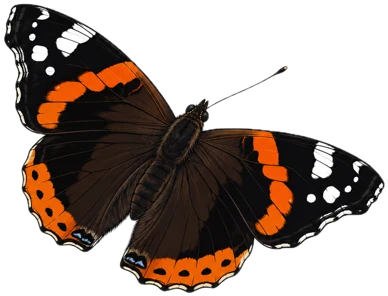
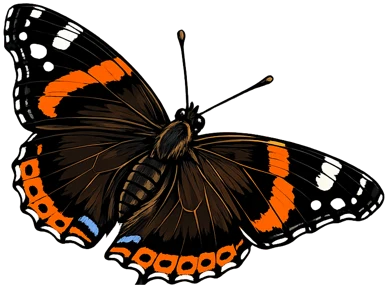
1.4 "Admiral" is live: the release date, in six languages
All four versions (CR and JR, Mac and iOS) went to READY_FOR_SALE on
August 13, 2026. The changelog's placeholder month becomes the day.

Changed region(s): [[0.0, 0.0, 1.0, 1.0], [0.7113, 0.2188, 0.7423, 0.25]]

diff --git a/js/i18n.js b/js/i18n.js
@@ -71,7 +71,7 @@ const translations = {
     'changelog.header.title': 'What’s <em>New</em>',
     'changelog.header.subtitle': 'Every ContinuousReader release, newest first. JustReader shares the reading engine, so engine changes apply to both apps.',
     'changelog.v14.i10': 'Fixes and polish throughout.',
-    'changelog.v14.i9': 'JustReader: a real Settings screen, reading statistics, bookmarks and notes that survive re-imports, the Book Card, and chapter navigation right from home.',
+    'changelog.v14.i9': 'JustReader: a full-fledged Settings screen, reading statistics, bookmarks and notes that survive re-imports, the Book Card, and chapter navigation right from home.',
     'changelog.v14.i8': 'Sync you can see: the waiting curtain names the book and says how fresh the other device’s position is; the readers sheet lists every device with its live position.',
     'changelog.v14.i7': 'The iPhone library, one tap deep: a dedicated search-and-filter button, a reachable Trash, folder management by swipes, a full-screen book card.',
     'changelog.v14.i6': 'Quick reader appearance everywhere: a floating panel you keep beside the page on the Mac, a full-screen surface on iPhone — no open book required.',
@@ -80,7 +80,7 @@ const translations = {
     'changelog.v14.i3': 'One Book Card on every device: it opens instantly even on image-heavy books, the gallery pages smoothly, and the Stats tab shows the book’s own reading history.',
     'changelog.v14.i2': 'Go To — jump into a book at a chapter or bookmark straight from the library; books now carry their real table of contents instead of invented chapter numbers.',
     'changelog.v14.i1': 'Global search — find any phrase in any book you own: text, titles, authors, series, annotations. Results show highlighted snippets with hit counts, and the jump arrow opens the book right at the found place.',
-    'changelog.v14.date': '— August 2026',
+    'changelog.v14.date': '— August 13, 2026',
     'changelog.v14.title': '1.4 “Admiral”',
     'changelog.v13.i8': 'Fixes and polish throughout.',
     'changelog.v13.i7': 'JustReader: a new home screen — a round Read button wrapped in a progress gauge — plus a history of the last five books, each reopening on its page.',
@@ -966,7 +966,7 @@ const translations = {
     'changelog.header.title': 'Что <em>нового</em>',
     'changelog.header.subtitle': 'Все релизы ContinuousReader, новые сверху. JustReader использует тот же движок чтения, поэтому изменения движка касаются обоих приложений.',
     'changelog.v14.i10': 'Исправления и полировка.',
-    'changelog.v14.i9': 'JustReader: настоящий экран настроек, статистика чтения, закладки и заметки, переживающие повторный импорт, карточка книги и навигация по главам с главного экрана.',
+    'changelog.v14.i9': 'JustReader: полноценный экран настроек, статистика чтения, закладки и заметки, переживающие повторный импорт, карточка книги и навигация по главам с главного экрана.',
     'changelog.v14.i8': 'Видимая синхронизация: шторка ожидания называет книгу и говорит, насколько свежа позиция другого устройства; список читателей показывает живую позицию каждого.',
     'changelog.v14.i7': 'Библиотека iPhone — всё в один тап: отдельная кнопка поиска и фильтров, досягаемая корзина, управление папками свайпами, полноэкранная карточка книги.',
     'changelog.v14.i6': 'Быстрая настройка оформления ридера везде: плавающая панель рядом со страницей на Mac, полноэкранная — на iPhone; открытая книга не нужна.',
@@ -975,7 +975,7 @@ const translations = {
     'changelog.v14.i3': 'Единая карточка книги на всех устройствах: открывается мгновенно даже на книгах с сотней иллюстраций, галерея листается плавно, во вкладке статистики — история чтения книги.',
     'changelog.v14.i2': 'Go To — переход к главе или закладке прямо из библиотеки; книги теперь получают своё настоящее оглавление вместо выдуманных номеров глав.',
     'changelog.v14.i1': 'Глобальный поиск — любая фраза в любой книге библиотеки: текст, названия, авторы, серии, аннотации. Результаты показывают фрагменты с подсветкой и число совпадений, а стрелка перехода открывает книгу прямо на найденном месте.',
-    'changelog.v14.date': '— август 2026',
+    'changelog.v14.date': '— 13 августа 2026',
     'changelog.v14.title': '1.4 «Адмирал»',
     'changelog.v13.i8': 'Исправления и полировка.',
     'changelog.v13.i7': 'JustReader: новый главный экран — круглая кнопка «Читать» со шкалой прочитанного — и история пяти последних книг, каждая открывается на своей странице.',
@@ -1852,7 +1852,7 @@ const translations = {
     'changelog.header.title': 'Що <em>нового</em>',
     'changelog.header.subtitle': 'Усі релізи ContinuousReader, найновіші згори. JustReader використовує той самий рушій читання, тож зміни рушія стосуються обох застосунків.',
     'changelog.v14.i10': 'Виправлення та поліпшення.',
-    'changelog.v14.i9': 'JustReader: справжній екран налаштувань, статистика читання, закладки й нотатки, що переживають повторний імпорт, картка книги та навігація за розділами з головного екрана.',
+    'changelog.v14.i9': 'JustReader: повноцінний екран налаштувань, статистика читання, закладки й нотатки, що переживають повторний імпорт, картка книги та навігація за розділами з головного екрана.',
     'changelog.v14.i8': 'Видима синхронізація: шторка очікування називає книгу й каже, наскільки свіжа позиція іншого пристрою; список читачів показує живу позицію кожного.',
     'changelog.v14.i7': 'Бібліотека iPhone — усе в один дотик: окрема кнопка пошуку й фільтрів, досяжний кошик, керування папками свайпами, повноекранна картка книги.',
     'changelog.v14.i6': 'Швидке налаштування вигляду читалки всюди: плаваюча панель поруч зі сторінкою на Mac, повноекранна — на iPhone; відкрита книга не потрібна.',
@@ -1861,7 +1861,7 @@ const translations = {
     'changelog.v14.i3': 'Єдина картка книги на всіх пристроях: відкривається миттєво навіть на книгах із сотнею ілюстрацій, галерея гортається плавно, у вкладці статистики — історія читання книги.',
     'changelog.v14.i2': 'Go To — перехід до розділу чи закладки просто з бібліотеки; книги тепер отримують свій справжній зміст замість вигаданих номерів розділів.',
     'changelog.v14.i1': 'Глобальний пошук — будь-яка фраза в будь-якій книзі бібліотеки: текст, назви, автори, серії, анотації. Результати показують фрагменти з підсвіткою та кількість збігів, а стрілка переходу відкриває книгу просто на знайденому місці.',
-    'changelog.v14.date': '— серпень 2026',
+    'changelog.v14.date': '— 13 серпня 2026',
     'changelog.v14.title': '1.4 «Адмірал»',
     'changelog.v13.i8': 'Виправлення й поліпшення.',
     'changelog.v13.i7': 'JustReader: новий головний екран — кругла кнопка «Читати» зі шкалою прочитаного — та історія п’яти останніх книг, кожна відкривається на своїй сторінці.',
@@ -2736,7 +2736,7 @@ const translations = {
     'changelog.header.title': '<em>Novedades</em>',
     'changelog.header.subtitle': 'Todas las versiones de ContinuousReader, las más recientes primero. JustReader comparte el motor de lectura, así que los cambios del motor se aplican a ambas apps.',
     'changelog.v14.i10': 'Correcciones y pulido.',
-    'changelog.v14.i9': 'JustReader: una pantalla de ajustes de verdad, estadísticas de lectura, marcadores y notas que sobreviven a la reimportación, la ficha del libro y navegación por capítulos desde el inicio.',
+    'changelog.v14.i9': 'JustReader: una pantalla de ajustes completa, estadísticas de lectura, marcadores y notas que sobreviven a la reimportación, la ficha del libro y navegación por capítulos desde el inicio.',
     'changelog.v14.i8': 'Sincronización visible: la cortina de espera nombra el libro y dice cuán reciente es la posición del otro dispositivo; la lista de lectores muestra la posición en vivo de cada uno.',
     'changelog.v14.i7': 'La biblioteca del iPhone, a un toque: botón dedicado de búsqueda y filtros, papelera accesible, gestión de carpetas con gestos, ficha de libro a pantalla completa.',
     'changelog.v14.i6': 'Ajustes rápidos de apariencia del lector en todas partes: un panel flotante junto a la página en el Mac, una superficie a pantalla completa en el iPhone — sin necesidad de un libro abierto.',
@@ -2745,7 +2745,7 @@ const translations = {
     'changelog.v14.i3': 'Una ficha de libro única en todos los dispositivos: se abre al instante incluso con cientos de ilustraciones, la galería pasa con fluidez y la pestaña de estadísticas muestra el historial de lectura del libro.',
     'changelog.v14.i2': 'Go To: salta a un capítulo o marcador directamente desde la biblioteca; los libros ahora traen su índice real en lugar de números de capítulo inventados.',
     'changelog.v14.i1': 'Búsqueda global: encuentra cualquier frase en cualquier libro de tu biblioteca — texto, títulos, autores, series, anotaciones. Los resultados muestran fragmentos resaltados con el número de coincidencias, y la flecha abre el libro justo en el lugar encontrado.',
-    'changelog.v14.date': '— agosto de 2026',
+    'changelog.v14.date': '— 13 de agosto de 2026',
     'changelog.v14.title': '1.4 “Almirante”',
     'changelog.v13.i8': 'Correcciones y mejoras.',
     'changelog.v13.i7': 'JustReader: nueva pantalla principal — un botón redondo de Leer rodeado por un indicador de progreso — más un historial de los últimos cinco libros, cada uno reabriéndose en su página.',
@@ -3622,7 +3622,7 @@ const translations = {
     'changelog.header.title': '<em>Nouveautés</em>',
     'changelog.header.subtitle': 'Toutes les versions de ContinuousReader, les plus récentes en premier. JustReader partage le moteur de lecture : les changements du moteur s’appliquent aux deux apps.',
     'changelog.v14.i10': 'Corrections et finitions.',
-    'changelog.v14.i9': 'JustReader : un vrai écran de réglages, des statistiques de lecture, des signets et notes qui survivent à la réimportation, la fiche du livre et la navigation par chapitres depuis l’accueil.',
+    'changelog.v14.i9': 'JustReader : un écran de réglages complet, des statistiques de lecture, des signets et notes qui survivent à la réimportation, la fiche du livre et la navigation par chapitres depuis l’accueil.',
     'changelog.v14.i8': 'Une synchronisation visible : le rideau d’attente nomme le livre et indique la fraîcheur de la position de l’autre appareil ; la liste des lecteurs montre la position en direct de chacun.',
     'changelog.v14.i7': 'La bibliothèque iPhone à portée d’un geste : bouton dédié recherche et filtres, corbeille accessible, gestion des dossiers par balayage, fiche du livre en plein écran.',
     'changelog.v14.i6': 'Réglages rapides de l’apparence du lecteur partout : un panneau flottant à côté de la page sur Mac, une surface plein écran sur iPhone — sans livre ouvert.',
@@ -3631,7 +3631,7 @@ const translations = {
     'changelog.v14.i3': 'Une fiche de livre unique sur tous les appareils : ouverture instantanée même avec des centaines d’illustrations, galerie fluide, et l’onglet statistiques montre l’historique de lecture du livre.',
     'changelog.v14.i2': 'Go To : accédez à un chapitre ou à un signet directement depuis la bibliothèque ; les livres portent désormais leur vraie table des matières au lieu de numéros de chapitre inventés.',
     'changelog.v14.i1': 'Recherche globale : trouvez n’importe quelle phrase dans n’importe quel livre de votre bibliothèque — texte, titres, auteurs, séries, annotations. Les résultats montrent des extraits surlignés avec le nombre d’occurrences, et la flèche ouvre le livre à l’endroit exact.',
-    'changelog.v14.date': '— août 2026',
+    'changelog.v14.date': '— 13 août 2026',
     'changelog.v14.title': '1.4 « Amiral »',
     'changelog.v13.i8': 'Corrections et finitions.',
     'changelog.v13.i7': 'JustReader : nouvel écran d’accueil — un bouton rond Lire entouré d’une jauge de progression — plus un historique des cinq derniers livres, chacun se rouvrant à sa page.',
@@ -4507,7 +4507,7 @@ const translations = {
     'changelog.header.title': '<em>Neuigkeiten</em>',
     'changelog.header.subtitle': 'Alle ContinuousReader-Versionen, neueste zuerst. JustReader teilt die Lese-Engine — Engine-Änderungen gelten für beide Apps.',
     'changelog.v14.i10': 'Fehlerbehebungen und Feinschliff.',
-    'changelog.v14.i9': 'JustReader: ein echter Einstellungsbildschirm, Lesestatistik, Lesezeichen und Notizen, die den erneuten Import überleben, die Buchkarte und Kapitelnavigation direkt vom Startbildschirm.',
+    'changelog.v14.i9': 'JustReader: ein vollwertiger Einstellungsbildschirm, Lesestatistik, Lesezeichen und Notizen, die den erneuten Import überleben, die Buchkarte und Kapitelnavigation direkt vom Startbildschirm.',
     'changelog.v14.i8': 'Sichtbare Synchronisierung: der Wartevorhang nennt das Buch und sagt, wie frisch die Position des anderen Geräts ist; die Leserliste zeigt die Live-Position jedes Geräts.',
     'changelog.v14.i7': 'Die iPhone-Bibliothek, einen Fingertipp entfernt: eigene Such- und Filtertaste, erreichbarer Papierkorb, Ordnerverwaltung per Wischgesten, Buchkarte im Vollbild.',
     'changelog.v14.i6': 'Schnelle Reader-Darstellung überall: ein schwebendes Panel neben der Seite auf dem Mac, eine Vollbildfläche auf dem iPhone — ganz ohne geöffnetes Buch.',
@@ -4516,7 +4516,7 @@ const translations = {
     'changelog.v14.i3': 'Eine Buchkarte auf allen Geräten: öffnet sofort, selbst bei Büchern mit Hunderten Illustrationen, die Galerie blättert flüssig, und der Statistik-Tab zeigt die Lesegeschichte des Buchs.',
     'changelog.v14.i2': 'Go To — direkt aus der Bibliothek zu einem Kapitel oder Lesezeichen springen; Bücher tragen jetzt ihr echtes Inhaltsverzeichnis statt erfundener Kapitelnummern.',
     'changelog.v14.i1': 'Globale Suche — jede Phrase in jedem Buch der Bibliothek finden: Text, Titel, Autoren, Reihen, Anmerkungen. Die Ergebnisse zeigen hervorgehobene Ausschnitte mit Trefferzahl, und der Sprungpfeil öffnet das Buch genau an der Fundstelle.',
-    'changelog.v14.date': '— August 2026',
+    'changelog.v14.date': '— 13. August 2026',
     'changelog.v14.title': '1.4 „Admiral“',
     'changelog.v13.i8': 'Korrekturen und Feinschliff.',
     'changelog.v13.i7': 'JustReader: neuer Startbildschirm — eine runde Lesen-Taste mit Fortschrittsskala — plus ein Verlauf der letzten fünf Bücher, jedes öffnet sich auf seiner Seite.',

diff --git a/changelog.html b/changelog.html
@@ -73,7 +73,7 @@
 
       <div class="release-divider">
         <img class="release-butterfly" src="img/butterfly-admiral.webp" alt="" aria-hidden="true">
-        <h3><span data-i18n="changelog.v14.title">1.4 “Admiral”</span> <span class="changelog-date" data-i18n="changelog.v14.date">— August 2026</span></h3>
+        <h3><span data-i18n="changelog.v14.title">1.4 “Admiral”</span> <span class="changelog-date" data-i18n="changelog.v14.date">— August 13, 2026</span></h3>
       </div>
       <ul class="changelog-list">
         <li data-i18n="changelog.v14.i1">Global search — find any phrase in any book you own: text, titles, authors, series, annotations. Results show highlighted snippets with hit counts, and the jump arrow opens the book right at the found place.<button class="callout-dot" type="button" data-screenshot="img/screenshots/features-global-search.webp" data-alt="Mac search window with highlighted snippets across three books and jump arrows" aria-label="View global search screenshot"></button></li>
@@ -84,9 +84,20 @@
         <li data-i18n="changelog.v14.i6">Quick reader appearance everywhere: a floating panel you keep beside the page on the Mac, a full-screen surface on iPhone — no open book required.</li>
         <li data-i18n="changelog.v14.i7">The iPhone library, one tap deep: a dedicated search-and-filter button, a reachable Trash, folder management by swipes, a full-screen book card.<button class="callout-dot" type="button" data-screenshot="img/screenshots/features-search-iphone.webp" data-alt="iPhone search sheet with highlighted snippets and covers" aria-label="View iPhone search screenshot"></button></li>
         <li data-i18n="changelog.v14.i8">Sync you can see: the waiting curtain names the book and says how fresh the other device’s position is; the readers sheet lists every device with its live position.</li>
-        <li data-i18n="changelog.v14.i9">JustReader: a real Settings screen, reading statistics, bookmarks and notes that survive re-imports, the Book Card, and chapter navigation right from home.</li>
+        <li data-i18n="changelog.v14.i9">JustReader: a full-fledged Settings screen, reading statistics, bookmarks and notes that survive re-imports, the Book Card, and chapter navigation right from home.</li>
         <li data-i18n="changelog.v14.i10">Fixes and polish throughout.</li>
       </ul>
+
+      <div class="screenshot" style="margin-top: 28px;">
+        <img width="1600" height="1000" loading="lazy" decoding="async"
+             src="img/screenshots/features-global-search.webp"
+             alt="Mac search window with highlighted snippets across three books and jump arrows">
+      </div>
+      <div class="screenshot" style="margin-top: 20px;">
+        <img width="1327" height="1400" loading="lazy" decoding="async"
+             src="img/screenshots/features-depth.webp"
+             alt="Six Mac windows comparing Flat, Standard, and Deep depth in light and dark appearance">
+      </div>
 
       <div class="release-divider">
         <img class="release-butterfly" src="img/butterfly-swallowtail.webp" alt="" aria-hidden="true">

diff --git a/features.html b/features.html
@@ -883,6 +883,9 @@
                     <li data-i18n="features.s3.tabs.li1"><strong>Library</strong>The complete collection, with all
                         filtering, sorting, and folder scoping applied
                     </li>
+                    <li data-i18n="features.s3.tabs.li_new"><strong>New</strong>Books you haven’t started yet, with its
+                        own folder tree, per-folder counts, and Mark as Read to clear the badge without opening the book
+                    </li>
                     <li data-i18n="features.s3.tabs.li2"><strong>Latest</strong>Recently opened or recently imported
                         books (switchable), ignoring folder filters
                     </li>
@@ -896,7 +899,7 @@
         </span>
                     <button class="callout-dot section-callout" type="button"
                             data-screenshot="img/screenshots/features-library-tabs.webp"
-                            data-alt="Library tabs — Library, Latest, Pinned"
+                            data-alt="Library tabs — Library, New, Latest, Pinned"
                             aria-label="View library tabs screenshot"></button>
                 </p>
             </div>
